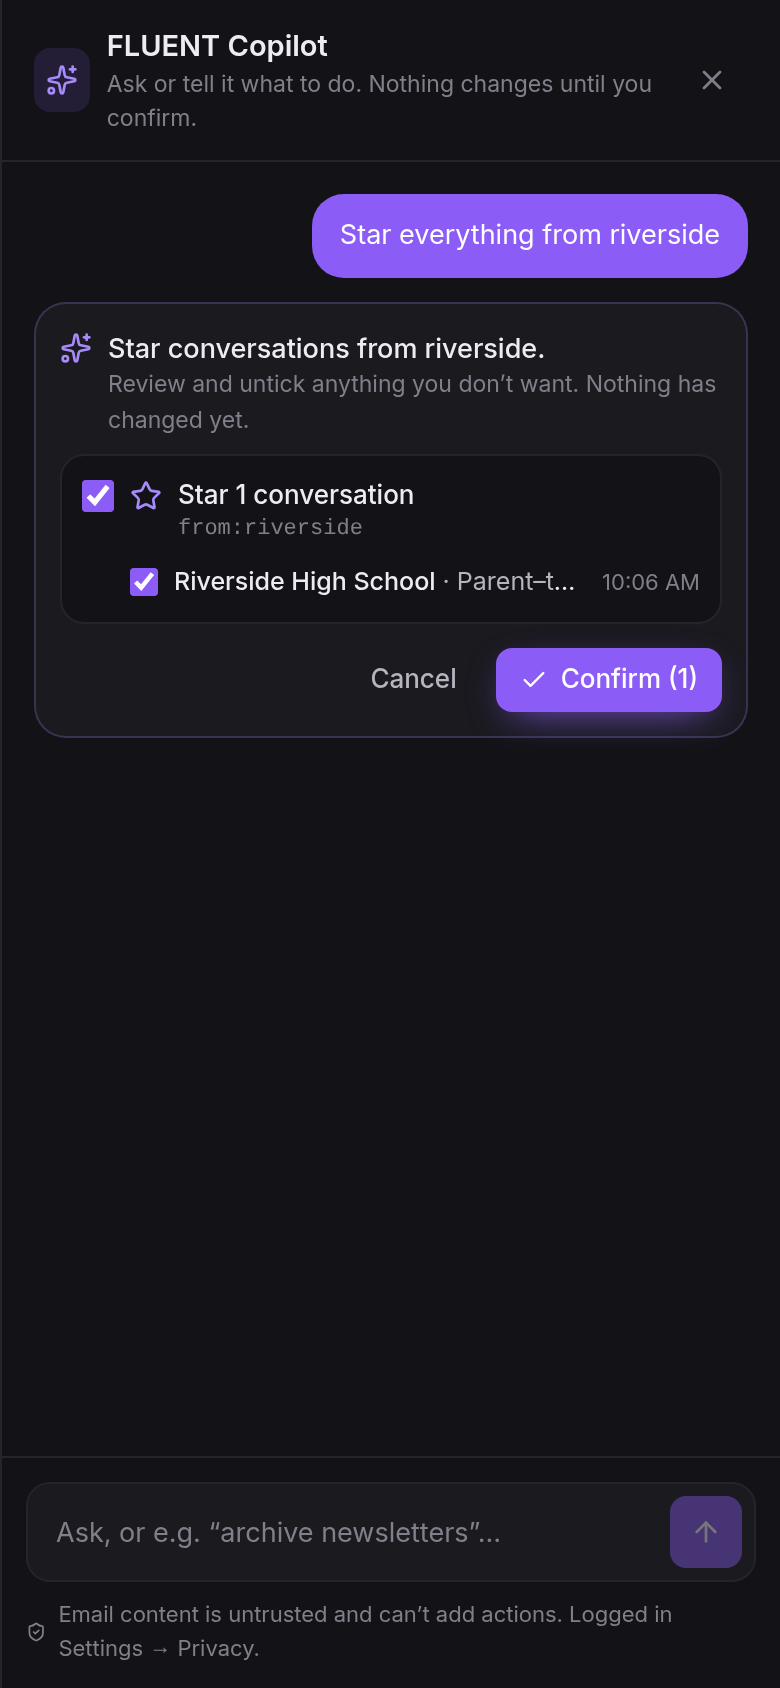
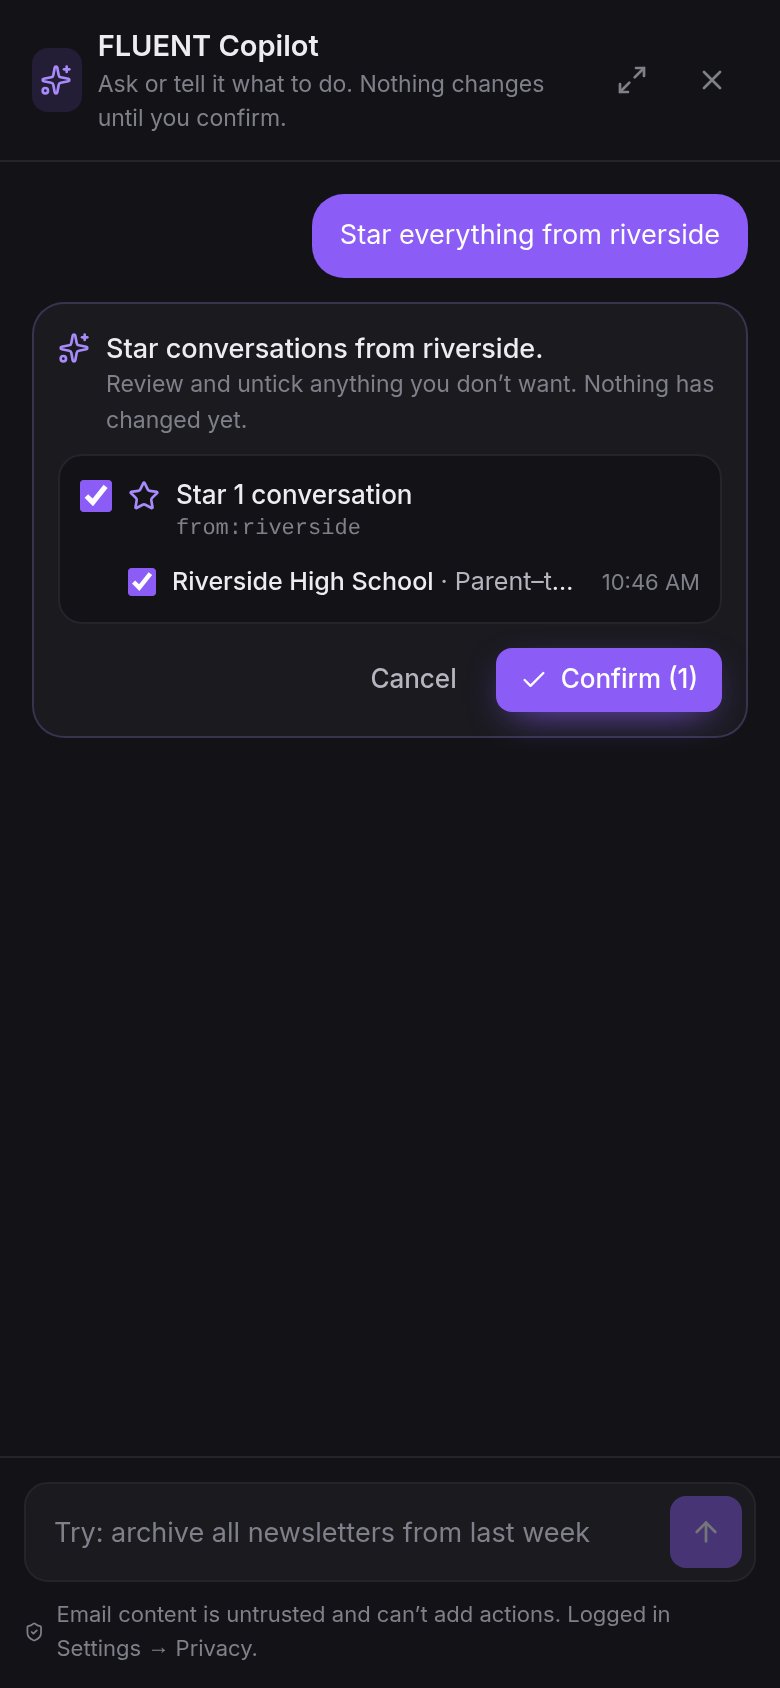
README: Copilot, palette, bulk actions, PWA; refresh screenshots

diff --git a/README.md b/README.md
@@ -12,7 +12,7 @@
 
 ## What it is
 
-FLUENT is a fast, keyboard-friendly, three-pane mail client for one or more Gmail accounts, with AI built into the reading and writing flow. It talks to Gmail through Google's official API and does not store your messages. The AI only ever produces text for you to review: it cannot send, delete or forward anything on its own.
+FLUENT is a fast, keyboard-friendly, three-pane mail client for one or more Gmail accounts, with AI built into the reading and writing flow. It talks to Gmail through Google's official API and does not store your messages. The AI never acts on its own. Copilot can propose actions, but it shows you the exact plan first and nothing changes until you confirm.
 
 ## Features
 
@@ -24,18 +24,21 @@ FLUENT is a fast, keyboard-friendly, three-pane mail client for one or more Gmai
 - Compose with rich text (TipTap), CC/BCC, attachments, autosaved Gmail drafts, and reply, reply-all and forward with correct threading
 - Search with Gmail syntax, plus **natural-language search** ("invoice I got last month") that shows the generated Gmail query
 - Gmail filters: create and delete
+- **Multi-select and bulk actions**: hover an avatar to get a checkbox, shift-click to select a range, `x` to select and `Esc` to clear, or long-press on mobile. The action bar can archive, mark read or unread, snooze, label, or move to Trash (asks "Move 5 emails to Trash?"). Every bulk action can be undone. On the server it runs as a validated, rate-limited batch endpoint (`users.messages.batchModify`, max 100 conversations).
 - Polling-based sync with in-app and desktop notifications
 - **Undo send**: messages wait 5 s by default (off, 5, 10 or 20 s in Settings → Appearance) with an Undo button. Leaving the page during the window asks first.
 - **Snooze** (later today, tomorrow, weekend, next week) into a Snoozed folder, and **remind me if no reply** for sent mail. Both return automatically on the next sync after they are due, so no cron is needed.
 - **Follow-up radar** in the AI Overview: sent mail still waiting on a reply, and questions you haven't answered, with one-click drafted nudges (confirm first)
-- Keyboard shortcuts (`j`/`k`, `e`, `#`, `r`, `c`, `/`, `g i`, `g o`, `?`, `⌘K` for Copilot) and dark (default), light or system theme
+- Keyboard shortcuts (`j`/`k`, `e`, `#`, `r`, `c`, `/`, `x`, `z`, `g i`, `g o`, `?`), a **⌘K command palette** (go anywhere, run conversation actions, or ask Copilot), **⌘J** for Copilot, and dark (default), light or system theme
+- **Installable app (PWA)**: add FLUENT to your home screen on Android or iOS. It has a manifest, icons and safe-area support. The service worker caches only the static app shell and never `/api` or email.
 
 **AI** (Google Gemini by default, with xAI Grok or OpenAI as options, through the Vercel AI SDK)
 - A thread summary with key points, action items, deadlines and quick replies
 - "Explain this email simply" and questions about a specific thread
 - Draft new emails or replies from an instruction, then make them shorter or longer, fix grammar, or change the tone
 - **Ask your inbox / Copilot**: answers grounded in your emails, with links to the sources
-- **Copilot actions** (⌘K): tell it what to do ("archive newsletters from this week", "star everything from Sofia", "draft follow-ups"). It shows a plan with every affected conversation and the full draft text. Nothing runs until you confirm, Trash and send need an extra confirmation, and archive, star, read and label changes can be undone.
+- **Copilot, front and centre**: an "Ask Copilot" bar at the top of every mail list, ⌘J anywhere, "Ask Copilot about this email" in the reader, a floating Copilot button on mobile that opens a full-screen sheet, and a wide panel you can expand to a large centered view
+- **Copilot actions**: tell it what to do ("archive newsletters from this week", "star everything from Sofia", "draft follow-ups"). It shows a plan with every affected conversation and the full draft text. Nothing runs until you confirm, Trash and send need an extra confirmation, and archive, star, read and label changes can be undone.
 - **AI Overview**: a daily briefing of what needs a reply, what you're waiting on, deadlines and important mail. A Gmail-only triage still works without AI.
 - A mandatory confirmation step before any AI-written text is sent
 
@@ -58,6 +61,28 @@ FLUENT is a fast, keyboard-friendly, three-pane mail client for one or more Gmai
 </tr>
 </table>
 <p align="center"><img src="docs/screenshots/10-mobile-inbox.png" alt="Mobile inbox" width="260" /> <img src="docs/screenshots/11-mobile-reader.png" alt="Mobile reader" width="260" /></p>
+
+**Copilot, follow-ups, snooze and bulk actions**
+
+<table>
+<tr>
+<td><img src="docs/screenshots/24-inbox-ask-copilot-bar.png" alt="Ask Copilot bar in the inbox" /></td>
+<td><img src="docs/screenshots/25-copilot-expanded.png" alt="Copilot expanded with a plan" /></td>
+</tr>
+<tr>
+<td><img src="docs/screenshots/15-copilot-plan-preview.png" alt="Copilot plan preview" /></td>
+<td><img src="docs/screenshots/16-copilot-result.png" alt="Copilot result with Undo" /></td>
+</tr>
+<tr>
+<td><img src="docs/screenshots/20-radar-nudge.png" alt="Follow-up radar nudge" /></td>
+<td><img src="docs/screenshots/26-bulk-select.png" alt="Multi-select bulk actions" /></td>
+</tr>
+<tr>
+<td><img src="docs/screenshots/21-snooze-menu.png" alt="Snooze menu" /></td>
+<td><img src="docs/screenshots/23-command-palette.png" alt="Command palette" /></td>
+</tr>
+</table>
+<p align="center"><img src="docs/screenshots/18-mobile-copilot-plan.png" alt="Mobile Copilot sheet" width="260" /> <img src="docs/screenshots/27-mobile-bulk-bar.png" alt="Mobile bulk action bar" width="260" /></p>
 
 ## Stack
 
